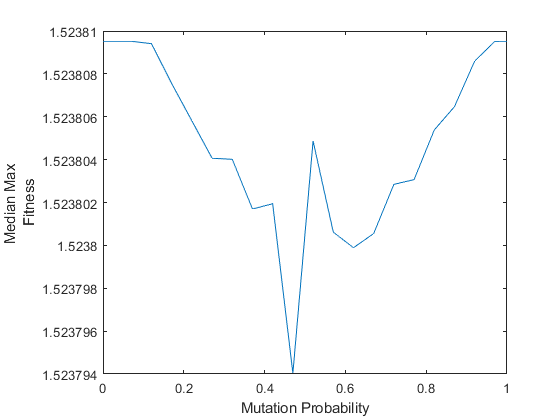
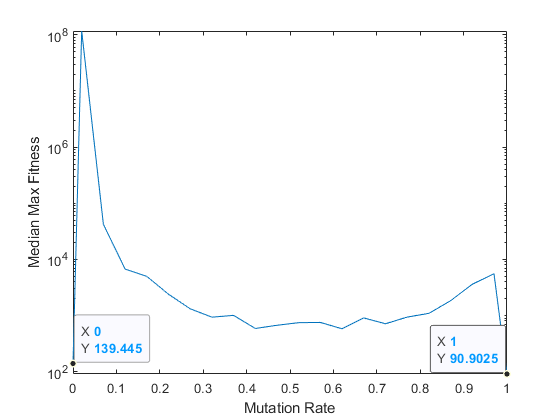
New plot

diff --git a/Home problem 1/1.3/RunBatch.m b/Home problem 1/1.3/RunBatch.m
@@ -45,7 +45,7 @@ end
 %%%%%%%%%%%%%%%%%%%%%%%%%%%%%%%%%%%%%%%%%%%%%%%%%%%%%%%%
 
 % Add more results summaries here (pMut < 0.02) ...
-loglog(mutationProbabilities, median(maximumFitnesses))
+semilogy(mutationProbabilities, median(maximumFitnesses))
 [mutationProbabilities' median(maximumFitnesses)']
 %average = mean(maximumFitnesses);
 %median = median(maximumFitnesses);
